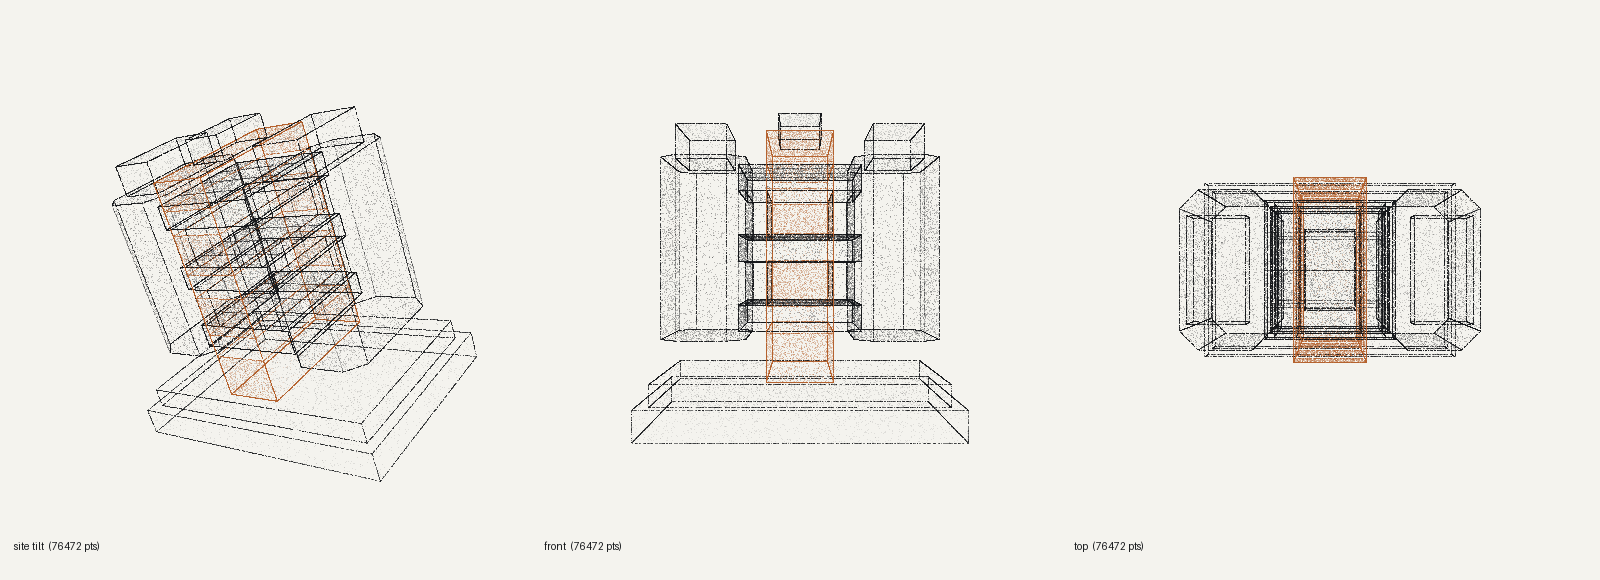
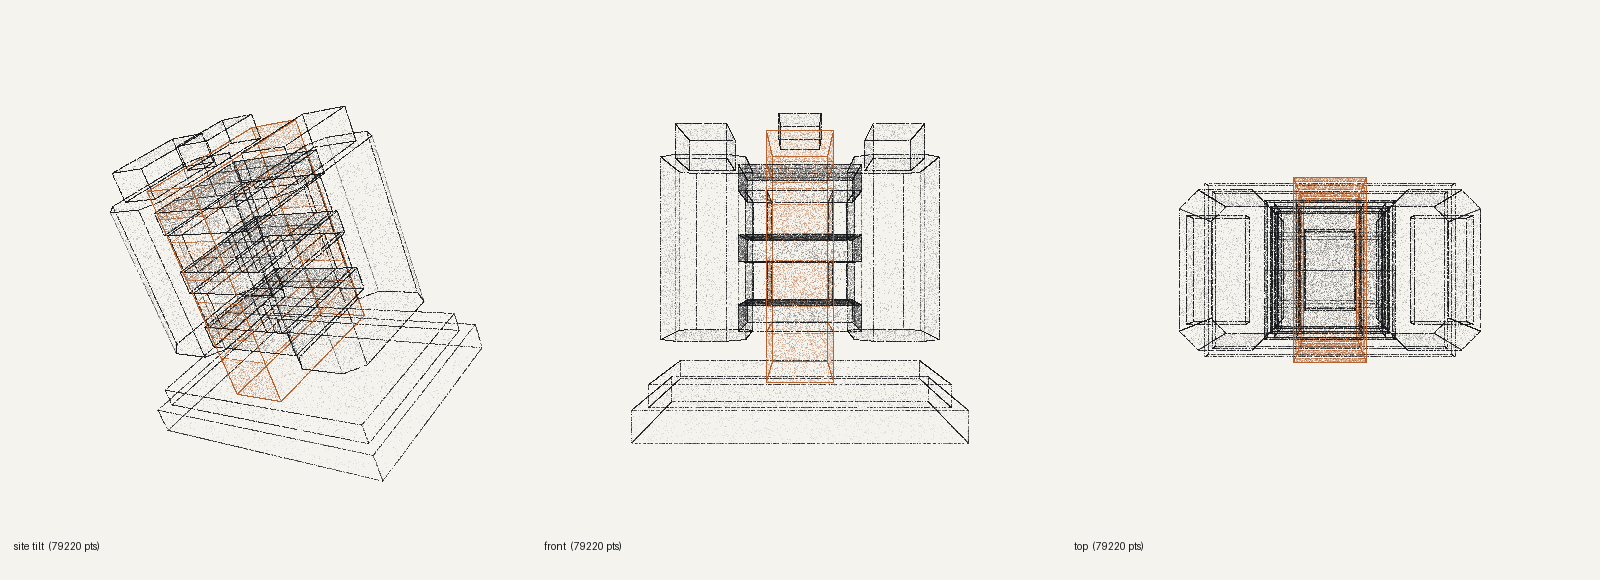
Auto-checkpoint: agent outputs

diff --git a/dist/index.html b/dist/index.html
@@ -3268,8 +3268,8 @@ PC.register('gaa-transistor', function (p) {
   // ---------- the three silicon nanosheets ----------
   y0.forEach(function (yb) {
     add(boxAt(-sL / 2, yb, -sW / 2, sL / 2, yb + sT, sW / 2,
-      { n: 2000, tone: 0.36, faces: ['py', 'pz', 'nz', 'px', 'nx'] }));
-    add(edgesAt(-sL / 2, yb, -sW / 2, sL / 2, yb + sT, sW / 2, 13, 1));
+      { n: 4400, tone: 0.30, faces: ['py', 'pz', 'nz', 'px', 'nx'] }));
+    add(edgesAt(-sL / 2, yb, -sW / 2, sL / 2, yb + sT, sW / 2, 9, 0.9));
     for (var q = -1; q <= 1; q++) {
       add(PC.line({ a: [-sL / 2, yb + sT, q * 8], b: [sL / 2, yb + sT, q * 8], perUnit: 7, tone: 0.45 }));
     }
@@ -3286,7 +3286,7 @@ PC.register('gaa-transistor', function (p) {
     });
     add(acc(edgesAt(-gX, b[0], -gZ, gX, b[1], gZ, 6, 1), 0.7));
   });
-  add(acc(boxAt(-gX, gY0, -gZ, gX, gY1, gZ, { n: 900, tone: 1, faces: ['py'] }), 0.34));
+  add(acc(boxAt(-gX, gY0, -gZ, gX, gY1, gZ, { n: 420, tone: 1, faces: ['py'] }), 0.24));
   add(acc(edgesAt(-gX, gY0, -gZ, gX, gY1, gZ, 15, 1), 1));
   // the metal that runs around the sheet edges: two thin walls just outside them
   [-1, 1].forEach(function (s) {
@@ -3306,7 +3306,7 @@ PC.register('gaa-transistor', function (p) {
   var shape = [[0.125, -0.130], [0.165, -0.170], [0.280, -0.170], [0.320, -0.130],
                [0.320, 0.130], [0.280, 0.170], [0.165, 0.170], [0.125, 0.130]];
   [-1, 1].forEach(function (s) {
-    var epi = PC.thin(PC.extrude({ shape: shape, h: 0.42, tone: 0.30 }), 0.52);
+    var epi = PC.thin(PC.extrude({ shape: shape, h: 0.42, tone: 0.20 }), 0.46);
     add(PC.T(epi, { scale: [s * 100, 100, 100], pos: [0, 19, 0] }));
     var ring = shape.map(function (q) { return [s * q[0] * 100, 0, q[1] * 100]; });
     [-2, 40].forEach(function (yy) {
@@ -3327,7 +3327,7 @@ PC.register('gaa-transistor', function (p) {
   return {
     cloud: PC.merge.apply(null, parts),
     spin: 0.12,
-    tilt: [0.46, -0.72, 0],
+    tilt: [0.52, -0.76, 0],
     caption: 'A gate-all-around nanosheet transistor, drawn at the dimensions a 2 nm-class node ' +
       'uses: three silicon sheets 6 nm thick and 30 nm wide, stacked 10 nm apart, running from the ' +
       'source epitaxy on one side to the drain epitaxy on the other. The copper cage is the gate. ' +

diff --git a/specimens/gaa-transistor.js b/specimens/gaa-transistor.js
@@ -54,8 +54,8 @@ PC.register('gaa-transistor', function (p) {
   // ---------- the three silicon nanosheets ----------
   y0.forEach(function (yb) {
     add(boxAt(-sL / 2, yb, -sW / 2, sL / 2, yb + sT, sW / 2,
-      { n: 2000, tone: 0.36, faces: ['py', 'pz', 'nz', 'px', 'nx'] }));
-    add(edgesAt(-sL / 2, yb, -sW / 2, sL / 2, yb + sT, sW / 2, 13, 1));
+      { n: 4400, tone: 0.30, faces: ['py', 'pz', 'nz', 'px', 'nx'] }));
+    add(edgesAt(-sL / 2, yb, -sW / 2, sL / 2, yb + sT, sW / 2, 9, 0.9));
     for (var q = -1; q <= 1; q++) {
       add(PC.line({ a: [-sL / 2, yb + sT, q * 8], b: [sL / 2, yb + sT, q * 8], perUnit: 7, tone: 0.45 }));
     }
@@ -72,7 +72,7 @@ PC.register('gaa-transistor', function (p) {
     });
     add(acc(edgesAt(-gX, b[0], -gZ, gX, b[1], gZ, 6, 1), 0.7));
   });
-  add(acc(boxAt(-gX, gY0, -gZ, gX, gY1, gZ, { n: 900, tone: 1, faces: ['py'] }), 0.34));
+  add(acc(boxAt(-gX, gY0, -gZ, gX, gY1, gZ, { n: 420, tone: 1, faces: ['py'] }), 0.24));
   add(acc(edgesAt(-gX, gY0, -gZ, gX, gY1, gZ, 15, 1), 1));
   // the metal that runs around the sheet edges: two thin walls just outside them
   [-1, 1].forEach(function (s) {
@@ -92,7 +92,7 @@ PC.register('gaa-transistor', function (p) {
   var shape = [[0.125, -0.130], [0.165, -0.170], [0.280, -0.170], [0.320, -0.130],
                [0.320, 0.130], [0.280, 0.170], [0.165, 0.170], [0.125, 0.130]];
   [-1, 1].forEach(function (s) {
-    var epi = PC.thin(PC.extrude({ shape: shape, h: 0.42, tone: 0.30 }), 0.52);
+    var epi = PC.thin(PC.extrude({ shape: shape, h: 0.42, tone: 0.20 }), 0.46);
     add(PC.T(epi, { scale: [s * 100, 100, 100], pos: [0, 19, 0] }));
     var ring = shape.map(function (q) { return [s * q[0] * 100, 0, q[1] * 100]; });
     [-2, 40].forEach(function (yy) {
@@ -113,7 +113,7 @@ PC.register('gaa-transistor', function (p) {
   return {
     cloud: PC.merge.apply(null, parts),
     spin: 0.12,
-    tilt: [0.46, -0.72, 0],
+    tilt: [0.52, -0.76, 0],
     caption: 'A gate-all-around nanosheet transistor, drawn at the dimensions a 2 nm-class node ' +
       'uses: three silicon sheets 6 nm thick and 30 nm wide, stacked 10 nm apart, running from the ' +
       'source epitaxy on one side to the drain epitaxy on the other. The copper cage is the gate. ' +

diff --git a/qa/source-audit-strict-data.md b/qa/source-audit-strict-data.md
@@ -517,3 +517,129 @@ Six hosts, all Tier A by category:
 ## Follow-up: gated Hot Chips 2026 decks (9 September 2026, orchestrator)
 
 Both `hc2026.hotchips.org` PDFs return 401 in a real browser as well, so they were dropped. Nulled: `microsoft-maia-200.die.areaMm2Each` and `die.reticleLimited`; `meta-mtia-400.memory.stacks`, `memory.capacityGB`, `memory.bandwidthTBs`, `compute.fp8TFLOPS`, `compute.fp4TFLOPS`, `tdpW`. The two sentences in `landscape-notes.md` that carried those numbers were cut; the MTIA 400 note now says the absolute figures sit in a gated deck. Microsoft's and Meta's public posts were checked for the same numbers and do not carry them.
+
+---
+
+# Second search (9 September 2026) · the five null matrix rows
+
+The strict pass emptied five rows of `data/chokepoint-matrix.json`. This is the second, deeper look at
+each. Two rows were rebuilt, three stay null. `node -e "JSON.parse(...)"` passes;
+`node build/audit-data-sources.js` reports 0 disallowed and exits 0; shares sum to 100.1 (DRAM) and
+99.9 (HBM), both within the schema's "roughly 100".
+
+## Rebuilt · DRAM manufacturing
+
+**Searched.** SEC EDGAR full-text and submissions API for SK hynix, Micron and Samsung; Micron's
+10-K and earnings-call prepared remarks; `news.samsung.com`; CSIS *AI Has a Memory Problem* (25 June
+2026); CSET's ETO provision table; CRS R47508; SIA.
+
+**Found.** SK hynix Inc. (CIK 0002120882) filed a Form 424B4 prospectus on 10 July 2026 for its US
+registration. Under "Competitive Landscape" it prints "Global DRAM Market Shares by Revenue (includes
+HBM)" for 2021–2025 and 1Q26. The chart is a filed exhibit image; it was downloaded from EDGAR
+(`g32785g29a29.jpg`) and read directly:
+
+| | SK hynix | Samsung | Micron | Others |
+|---|---|---|---|---|
+| 2021A | 28.3% | 43.1% | 22.7% | 5.9% |
+| 2022A | 27.7% | 42.7% | 24.2% | 5.4% |
+| 2023A | 29.9% | 42.1% | 22.6% | 5.3% |
+| 2024A | 33.4% | 40.6% | 20.9% | 5.1% |
+| 2025A | 34.8% | 34.5% | 23.5% | 7.3% |
+| 1Q26A | 29.1% | 38.7% | 22.3% | 9.9% |
+
+The prose beside it adds that three firms hold "more than 90% of market share by revenue in the first
+quarter of 2026".
+
+**Row now reads.** Metric "Revenue share", year 2025, KR 69.3 (SK hynix 34.8 + Samsung 34.5), US 23.5
+(Micron), Other 7.3. Converted by parent-company headquarters, the matrix convention. Full-year 2025
+actuals were used rather than 1Q26 because 2026 is a price spike and a single quarter of revenue share
+would be a snapshot of pricing. The note carries three caveats: revenue not bits; headquarters not
+production (Micron fabs most of its bits in Taiwan and Japan); and "Others" is unattributed in the
+source, so it is left in the Other column rather than split between CXMT, Nanya, Winbond and PSMC.
+
+## Rebuilt · HBM
+
+**Found in the same filing**, second chart, "Global HBM Market Shares by Revenue" (`g32785g29b29.jpg`):
+2024A SK hynix 56.4 / Samsung 37.8 / Micron 5.8; 2025A 63.2 / 19.3 / 17.4; 1Q26A 56.4 / 20.5 / 23.1.
+
+**Row now reads.** Metric "Revenue share", year 2025, KR 82.5, US 17.4. Sums to 99.9 on the source's own
+rounding. No fourth supplier and no Chinese column, which is the substance of the row. The note records
+the 2024 and 1Q26 columns so the reader can see Korea falling from 94.2 to 82.5 to 76.9 as Micron
+qualified.
+
+**The attribution caveat, for both rows.** The prospectus sources both charts to IDC, which is a
+market-research firm this project does not cite. The figures are used because the vehicle is a
+registered prospectus — a company filing, explicitly Tier A — in which SK hynix adopts them as its own
+description of its market under securities-law liability. Both row notes say this in plain terms rather
+than presenting the numbers as SK hynix's own measurement. If the client would rather not accept a
+filing's third-party attribution, both rows go back to null and nothing else in the table changes.
+
+## Still null · Advanced packaging (2.5D/3D)
+
+**Searched.** CSET's ETO provision table, read row by row (there is no advanced-packaging *capacity*
+node; `N109 Fabrication tools (for advanced packaging)`, `N76 Packaging tools` and `N70 Assembly
+inspection tools` are tool markets, and the ATP stage node is already used by another row); SEMI; SIA
+and SIA/BCG; TSMC's transcripts and annual report; CSIS; Epoch AI; SemiAnalysis previews.
+
+**Not found, and the reason is structural.** Nobody measures 2.5D or 3D packaging capacity by country.
+What the search did turn up is the best available measure of the segment's narrowness, from the demand
+side: Epoch AI's data insight of 12 March 2026 estimates Nvidia at 60.3 percent of world CoWoS capacity
+in 2025 (90% CI 56.5–64.3), Google 13.5, AMD 8.4, Amazon 7.4, other 10.4, with the four together at
+around 90 percent of CoWoS and HBM by value against about 12 percent of advanced logic dies. That is a
+split by buyer, not by producing country, so it cannot fill the row. It is written into the note, and
+the row's `source` now points at Epoch rather than at Nvidia's 10-K, because Epoch is the stronger
+statement of the same fact. `shares` stays null.
+
+The wafers-per-month ladder that would let anyone build this row from scratch (roughly 13–16k WPM at
+end-2023, 35–40k at end-2024, 65–75k at end-2025) appears in Epoch's methodology, but Epoch states there
+that it takes those benchmarks from SemiWiki and TrendForce. That is a relay of disallowed data through
+an allowed host, so it is not used, and the "where the numbers are weakest" section of the notes now
+says so explicitly.
+
+## Still null · IC substrates
+
+**Searched.** ETO provision table; CSET's 2021 supply-chain report; the White House hundred-day supply
+chain review of June 2021 (250 pages, downloaded and searched for Ajinomoto, ABF, build-up, substrate,
+Ibiden, Unimicron); METI's semiconductor strategy decks; SEMI; Ibiden, Unimicron, Shinko, Samsung
+Electro-Mechanics and AT&S investor materials.
+
+**Not found, now verified rather than assumed.** ETO's provision table does contain a `Substrates`
+node. Every one of its eleven rows has an empty `share_provided` field: it names AKM, Ibiden, NanYa,
+Samsung, Shennan Circuits, Shinko and Zhuhai Yueya against CHN, JPN, KOR and TWN for 2019, and gives no
+percentages and no source string. The White House review names the same firms in the same way and adds
+that commenters flagged ABF substrate as a vulnerability, again without shares. METI's public English
+decks discuss packaging strategy and subsidies but publish no substrate world share.
+
+**Changed.** `shares` stays null. The note now records both checks by name so the next reader does not
+repeat them, and adds the one firm-level number that did surface — Ibiden's own statement that it takes
+close to 100 percent of a new interposer-substrate generation at launch and loses 20 to 30 points three
+to six months later. The row's `source` moves from CSET's 2021 report to the White House review, which
+is the document that actually names the supplier set and the vulnerability.
+
+## Still null · Server assembly
+
+**Searched.** CSET, *Big Tech in Taiwan* (July 2025, downloaded and searched); CSIS, *Mapping the
+Semiconductor Supply Chain* and *Why Taiwan Matters*; Epoch AI's chip-owner documentation and its piece
+on Nvidia in the US GDP statistics; Nvidia's FY2026 10-K; SIA.
+
+**Not found.** No allowed source splits AI server or rack integration by country. The nearest things
+are Nvidia's own disclosure that around a fifth of its revenue is billed to Taiwan-headquartered
+customers and its estimate that 76 percent of that data-centre revenue ends with customers in the
+United States and Europe — which is a billing geography, not an assembly geography — and CSET's
+observation that US firms rely on Taiwanese suppliers operating in Taiwan, China and elsewhere. Neither
+is a share.
+
+**Changed.** `shares` stays null; the note now names the three sources checked so the negative result
+is on the record. Source unchanged (Nvidia's annual report).
+
+## Domain added to data/source-tiers.json under A
+
+`bidenwhitehouse.archives.gov`, the archived White House host that now serves the June 2021 hundred-day
+supply chain review. `whitehouse.gov` was already listed but the audit script matches hosts by exact
+name or dot-suffix, and the archive host is neither.
+
+## Files touched in this pass
+
+`data/chokepoint-matrix.json` (five rows), `data/chokepoint-matrix-notes.md` (the "rows with no
+shares", "where the numbers come from", "metric" and "where the numbers are weakest" sections),
+`data/source-tiers.json` (one domain), and the three chapters logged in `qa/source-audit-strict.md`.

diff --git a/qa/prose-pass-2.md b/qa/prose-pass-2.md
@@ -126,8 +126,7 @@ Machine-prose removed:
 - Abstract noun where a plain clause worked. "The lock-in is stickiness:" became "What holds a customer is the cost of leaving:". "This is not lithography. No single tool has a single supplier." became "Unlike lithography, no tool here has a single supplier."
 - Aphoristic paragraph ending. "a small share of the revenue sitting on the critical path of all of it" became "That is a small share of the money for a step every chip has to pass through."
 - Chiasmus in the Takeaways. "the least likely part of this chain to be controlled by export policy, and the most likely to be reshaped by it" became "so export policy has less grip here than anywhere else in the chain". Also cut "quietly" from "Advantest has quietly turned a duopoly into a two-thirds share", and "actually" from the test-coverage criterion.
-- Jargon for a general reader: "before dies are singulated" became "before dies are cut from the wafer"; "irreplaceable package" became "a package that cannot be rewor
-ked"; "the tightest niche of all" became "the tightest niche".
+- Jargon for a general reader: "before dies are singulated" became "before dies are cut from the wafer"; "irreplaceable package" became "a package that cannot be reworked"; "the tightest niche of all" became "the tightest niche".
 - Long sentence with three citations split in two (the Amkor and TSMC Arizona sentence), so each half keeps its own source.
 
 Left alone:
